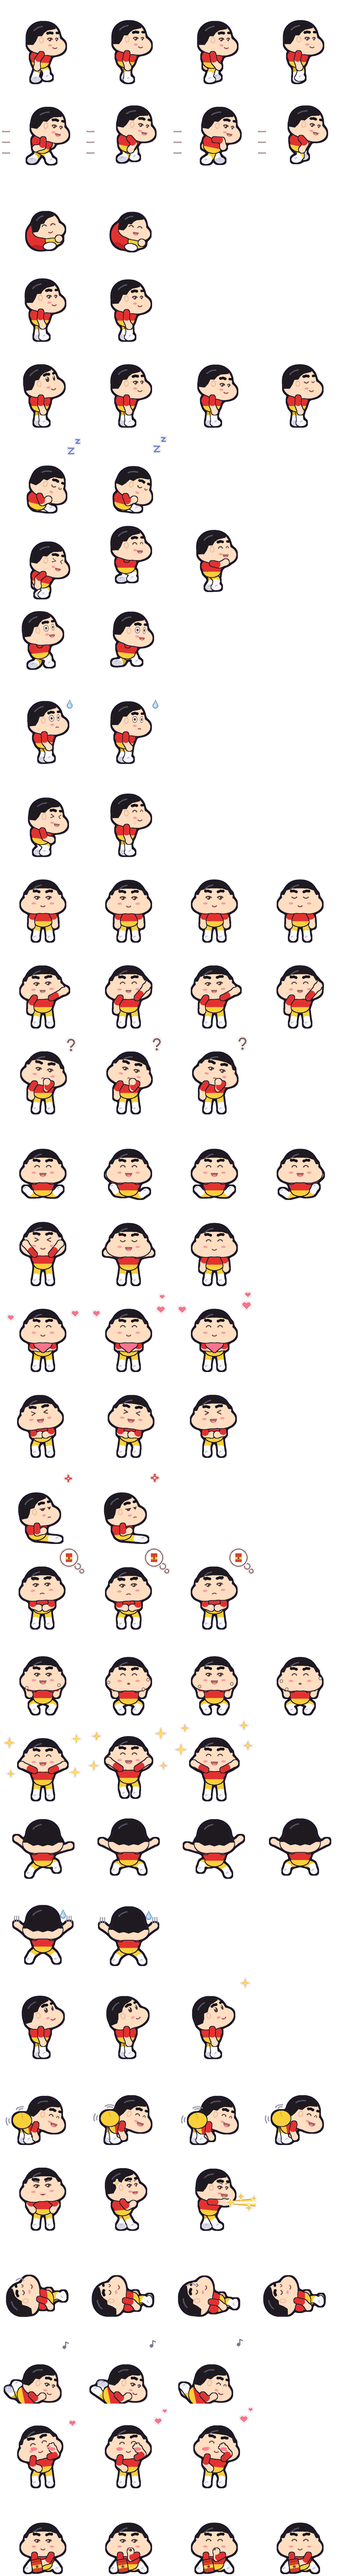
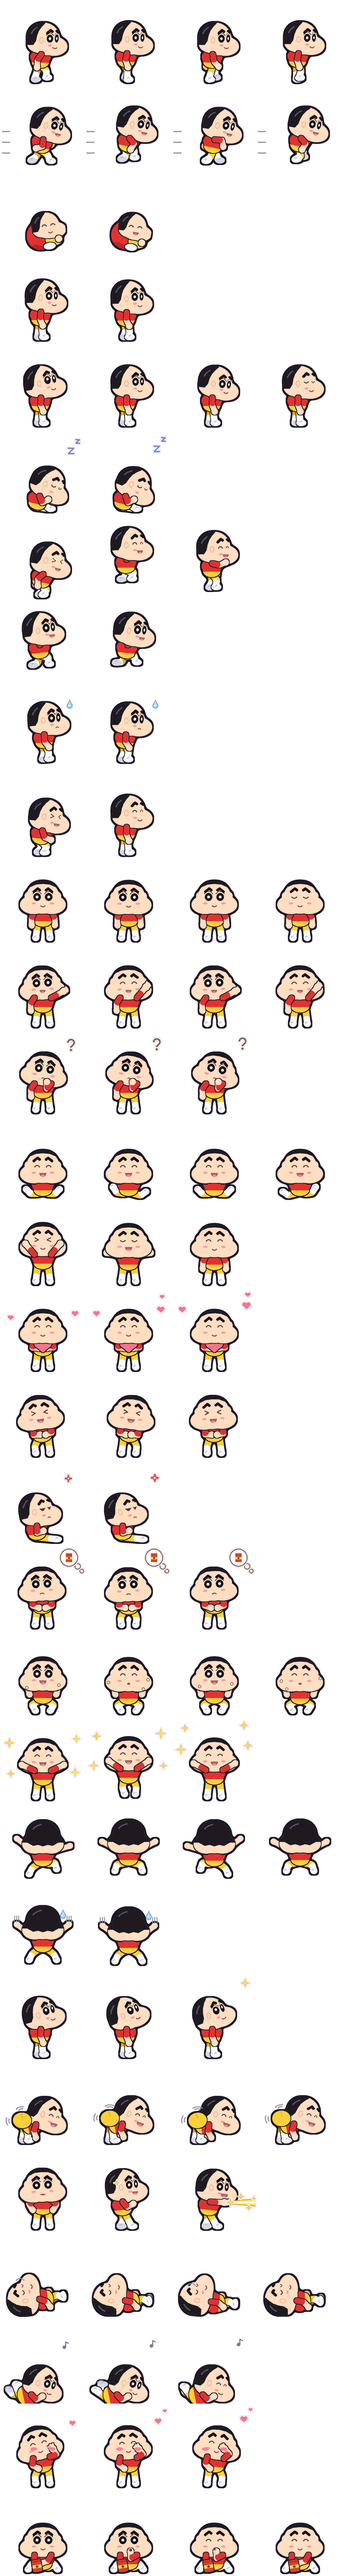
art(jjanggu): bare forehead, back-of-head hair, thick chevron brows, black-ring eyes with a white dot
Claude-Session: https://claude.ai/code/session_01QTKFeh88WdMrEuDr7Y72ss

diff --git a/tools/draw_jjanggu.py b/tools/draw_jjanggu.py
@@ -1,4 +1,4 @@
-"""짱구 🖍 — 아주 굵은 까만 눈썹, 아래가 넓은 감자 머리 (볼 통통), 짧은 까만 머리, 빨간 반팔 티셔츠, 노란 반바지, 하얀 양말·운동화의 꼬마 펫(jjanggu).
+"""짱구 🖍 — 아주 굵은 까만 ㅅ자 눈썹, 까만 동그란 눈 + 하얀 점, 아래가 넓은 주먹밥 머리 (볼 통통, 이마 훤히), 뒤통수만 덮는 까만 머리, 빨간 반팔 티셔츠, 노란 반바지, 하얀 양말·운동화의 꼬마 펫(jjanggu).
 몸·기본 동작은 draw_wizard (해리포터와 같은 사람 뼈대)를 쓰고, 로브 대신 티셔츠·반바지 (Look.skirt·sleeve·shorts·belt·socks·shoe)로 입힘.
 
     python tools/draw_jjanggu.py → ui/pets/jjanggu/{sheet_<stage>.png ×5, pet.json} + tools/preview/{stages_jjanggu,climb_jjanggu,moves_jjanggu}.png
@@ -40,47 +40,61 @@ def lobe(hx, hy, hrx, hry, cx, cy, rx, ry):
 
 
 def jj_hair(view_, hx, hy, hrx, hry, q):
-    """감자 머리 + 짧은 까만 머리: 아래쪽 볼이 통통하게 부풀어 머리가 아래로 넓음 (앞·뒷모습은 양 볼, 옆모습은 앞 볼·턱).
-    머리는 정수리를 덮는 짧은 모자 모양 (이마 위 일자 앞머리, 옆모습은 귀 뒤로 뒤통수까지). → (머리 도형에 더할 도형, 삐죽 조각, 머리 안 무늬)."""
+    """주먹밥 머리 + 짧은 까만 머리: 아래쪽 볼이 크게 부풀어 머리가 아래로 넓음 (앞·뒷모습은 양 볼, 옆모습은 앞으로 불룩한 볼).
+    이마는 훤히 드러나고 머리카락은 정수리 위 (앞모습)·뒤통수 (옆모습)만 덮음. → (머리 도형에 더할 도형, 삐죽 조각, 머리 안 무늬)."""
     sky = hy - hry * 2.0
-    shine = [L(dp.arc(hx, hy, hrx * 0.76, hry * 0.76, 218, 262, 8), 2.0)]
     if view_ == "side":
-        cheek = [lobe(hx, hy, hrx, hry, 0.54, 0.5, 0.84, 0.6), lobe(hx, hy, hrx, hry, -0.26, 0.36, 0.74, 0.6),
-                 lobe(hx, hy, hrx, hry, 0.12, 0.6, 0.72, 0.48)]
-        z = [(0.72, -0.62), (0.5, -0.56), (0.24, -0.5), (0.04, -0.34), (-0.1, -0.12), (-0.34, -0.1), (-0.46, 0.22), (-0.62, 0.46), (-1.6, 0.5)]
+        cheek = [lobe(hx, hy, hrx, hry, 0.64, 0.5, 0.86, 0.62), lobe(hx, hy, hrx, hry, -0.26, 0.36, 0.74, 0.6),
+                 lobe(hx, hy, hrx, hry, 0.2, 0.62, 0.78, 0.48)]
+        z = [(0.16, -1.2), (0.06, -0.94), (-0.12, -0.74), (-0.3, -0.46), (-0.4, -0.16), (-0.46, 0.2), (-0.62, 0.46), (-1.6, 0.5)]
         edge = [(hx + a * hrx, hy + b * hry) for a, b in z]
-        return cheek, [], [([T((hx + 0.72 * hrx, sky), *edge, (hx - 1.6 * hrx, sky))], HAIR), (shine, HAIR_HI)]
+        shine = [L(dp.arc(hx, hy, hrx * 0.8, hry * 0.8, 200, 236, 6), 2.0)]
+        return cheek, [], [([T(*edge, (hx - 1.6 * hrx, sky))], HAIR), (shine, HAIR_HI)]
     k = 0.9 if view_ == "back" else 1.0  # 뒷모습은 볼이 조금 덜 보임
-    cheeks = [lobe(hx, hy, hrx, hry, sd * 0.52 * k, 0.5, 0.84 * k, 0.58) for sd in (-1, 1)] + [lobe(hx, hy, hrx, hry, 0.0, 0.6, 0.8, 0.46)]
+    cheeks = [lobe(hx, hy, hrx, hry, sd * 0.56 * k, 0.52, 0.86 * k, 0.6) for sd in (-1, 1)] + [lobe(hx, hy, hrx, hry, 0.0, 0.62, 0.84, 0.48)]
     if view_ == "back":
+        shine = [L(dp.arc(hx, hy, hrx * 0.76, hry * 0.76, 218, 262, 8), 2.0)]
         z = [(1.6, 0.4), (0.96, 0.42), (0.6, 0.62), (0.3, 0.56), (0.0, 0.66), (-0.3, 0.56), (-0.6, 0.62), (-0.96, 0.42), (-1.6, 0.4)]
         edge = [(hx + a * hrx, hy + b * hry) for a, b in z]
         return cheeks, [], [([T(*edge, (hx - 1.6 * hrx, sky), (hx + 1.6 * hrx, sky))], HAIR), (shine, HAIR_HI)]
-    z = [(1.6, -0.1), (0.98, -0.12), (0.84, -0.4), (0.5, -0.52), (0.0, -0.54), (-0.5, -0.52), (-0.84, -0.4), (-0.98, -0.12), (-1.6, -0.1)]
+    z = [(1.6, -0.36), (0.98, -0.4), (0.78, -0.62), (0.42, -0.78), (0.0, -0.82), (-0.42, -0.78), (-0.78, -0.62), (-0.98, -0.4), (-1.6, -0.36)]
     edge = [(hx + a * hrx, hy + b * hry) for a, b in z]
     ears = [E(hx + sd * hrx - 3.2, hy - 0.08 * hry - 4.4, hx + sd * hrx + 3.2, hy - 0.08 * hry + 4.4) for sd in (-1, 1)]
-    return cheeks + ears, [], [([T(*edge, (hx - 1.6 * hrx, sky), (hx + 1.6 * hrx, sky))], HAIR), (shine, HAIR_HI)]
+    return cheeks + ears, [], [([T(*edge, (hx - 1.6 * hrx, sky), (hx + 1.6 * hrx, sky))], HAIR)]
 
 
-def brow(x0, y0, x1, y1, w):
-    """굵은 눈썹 하나 (가운데가 살짝 솟은 애벌레 모양)."""
-    mx, my = (x0 + x1) / 2, (y0 + y1) / 2 - w * 0.25
-    return L([(x0, y0), (mx, my), (x1, y1)], w)
+def jj_eye(kind, cx, cy, flip, sx=1.0):
+    """짱구 눈: 까만 동그라미 + 가운데 하얀 점 + 위에 가는 눈꺼풀 선 (뜬 눈 dot·up·round만 — 다른 표정은 None → 단계 눈)."""
+    if kind not in ("dot", "up", "round"):
+        return None
+    hrx = wz.ws()["hrx"]
+    r = 0.23 * hrx * (1.08 if kind == "round" else 1.0)
+    dy = -0.25 * r if kind == "up" else 0.0
+    with xf(sx=sx, pivot=(cx, cy)):
+        return [([E(cx - r, cy - r * 1.06, cx + r, cy + r * 1.06)], BROW),
+                ([C(cx, cy + dy, r * 0.36)], dp.WHITE),
+                ([L(dp.arc(cx, cy + r * 0.5, r * 1.5, r * 2.0, 222, 318, 10), 0.75)], wz.OUT)]
+
+
+def brow(pts, w):
+    """굵은 ㅅ자 눈썹 하나 (바깥 끝 → 꼭대기 → 안쪽 끝)."""
+    return L(pts, w)
 
 
 def jj_extra(view_, hx, hy, hrx, hry, far_eye, near_eye):
-    """아주 굵은 까만 눈썹 (짱구 얼굴의 상징): 앞모습 눈마다 두툼한 애벌레 눈썹 (가운데는 또렷이 떨어짐), 옆모습은 가까운 눈썹 + 먼 눈썹 끝."""
+    """아주 굵은 까만 ㅅ자 눈썹 (짱구 얼굴의 상징): 바깥 끝은 낮고 안쪽에서 솟았다가 살짝 내려옴 — 가운데는 또렷이 떨어짐.
+    옆모습은 가까운 눈썹 + 먼 눈썹 끝."""
     w = 0.17 * hry
     if view_ == "front":
         out = []
         for (ex, ey), sd in ((far_eye, -1), (near_eye, 1)):
-            y, cx = ey - 0.36 * hry, ex + sd * 0.03 * hrx
-            out.append(brow(cx - 0.16 * hrx, y + sd * 0.5, cx + 0.16 * hrx, y - sd * 0.5, w))
+            out.append(brow([(ex + sd * 0.2 * hrx, ey - 0.34 * hry), (ex - sd * 0.03 * hrx, ey - 0.54 * hry),
+                             (ex - sd * 0.16 * hrx, ey - 0.44 * hry)], w))
         return [(out, BROW)]
     if view_ == "side":
         (xf_, yf), (xn, yn) = far_eye, near_eye
-        return [([brow(xn - 0.16 * hrx, yn - 0.34 * hry, xn + 0.13 * hrx, yn - 0.36 * hry, w),
-                  L([(xf_ + 0.0 * hrx, yf - 0.36 * hry), (xf_ + 0.1 * hrx, yf - 0.37 * hry)], w * 0.9)], BROW)]
+        return [([brow([(xn - 0.17 * hrx, yn - 0.34 * hry), (xn + 0.02 * hrx, yn - 0.54 * hry), (xn + 0.13 * hrx, yn - 0.46 * hry)], w),
+                  L([(xf_ - 0.02 * hrx, yf - 0.48 * hry), (xf_ + 0.09 * hrx, yf - 0.4 * hry)], w * 0.9)], BROW)]
     return []
 
 
@@ -116,7 +130,7 @@ def chocobi_bubble_fx(cx, cy, r=12.0):
 JJ_LOOK = wz.Look(hair=jj_hair, hair_col=HAIR, skin=SKIN, skin_shade=SKIN_SHADE, extra=jj_extra, food_fx=chocobi_bubble_fx, prop=no_wand,
                   robe=SHIRT, robe_far=SHIRT_FAR, robe_in=SHIRT_FAR, jumper=SHIRT, pants=SHORTS, pants_far=SHORTS_FAR, scarf=False,
                   skirt=False, sleeve=0.55, shorts=0.6, belt=SHORTS, socks=SOCKS, shoe=SHOE, shoe_far=SHOE_FAR, shoe_hi=SHOE_HI,
-                  dims=dict(hrx=0.98, hry=1.04, th=0.9, leg=0.78, arm=0.92, tw=0.98), cap_lift=0.05, eye_k=0.8, back_reach=8.0)
+                  dims=dict(hrx=0.98, hry=1.04, th=0.9, leg=0.78, arm=0.92, tw=0.98), cap_lift=0.05, eye_k=0.8, eye_draw=jj_eye, back_reach=8.0)
 
 
 def s_():

diff --git a/tools/draw_wizard.py b/tools/draw_wizard.py
@@ -72,6 +72,7 @@ class Look:
     side_ear: bool = True  # 옆모습에 귀가 보임 (긴 머리는 가림)
     cap_lift: float = 0.0  # 수면 모자를 머리숱 위로 올리는 몫 (머리 반지름 배)
     eye_k: float = 0.82  # 눈 크기 배
+    eye_draw: Callable = None  # eye_draw(kind, cx, cy, flip, sx) → 눈 ops 또는 None (None이면 단계 눈) — 짱구의 까만 동그란 눈
     back_reach: float = 0.0  # 뒷모습 벽 짚은 손을 더 바깥으로 (부푼 머리에 가리지 않게)
     extra_parts: dict = field(default_factory=dict)
     robe: tuple = ROBE  # 로브 (몸·소매) · 먼 쪽 소매 · 안감 · 앞섶 사이 · 바지 (볼드모트는 더 까맣고 안감이 초록)
@@ -192,6 +193,10 @@ def eye_ops(kind, cx, cy, flip, brow=None, sx=1.0):
     """눈 하나 (draw_pets 단계 눈) + 눈썹 (angry · sad). sx: 옆모습 먼 눈은 가로로 좁게."""
     lk = look()
     k = lk.eye_k
+    if lk.eye_draw:
+        own = lk.eye_draw(kind, cx, cy, flip, sx)
+        if own is not None:
+            return own
     saved = (dp.EYE, dp.EYE_LIGHT)
     if lk.eyes:
         dp.EYE, dp.EYE_LIGHT = lk.eyes
